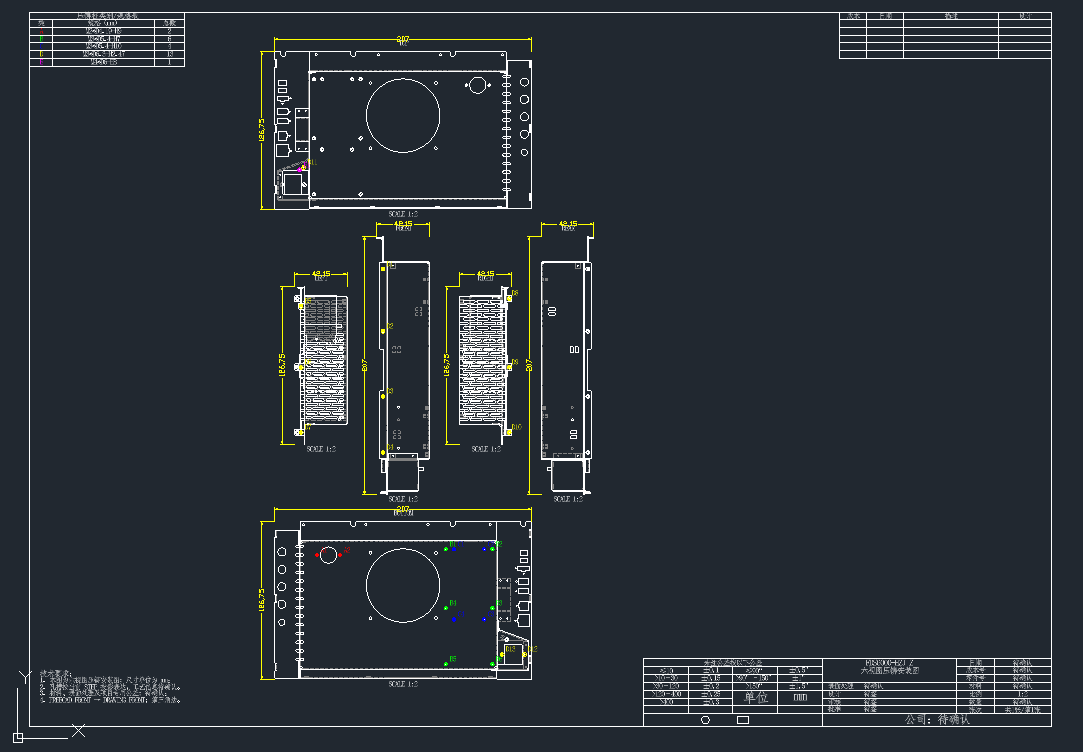
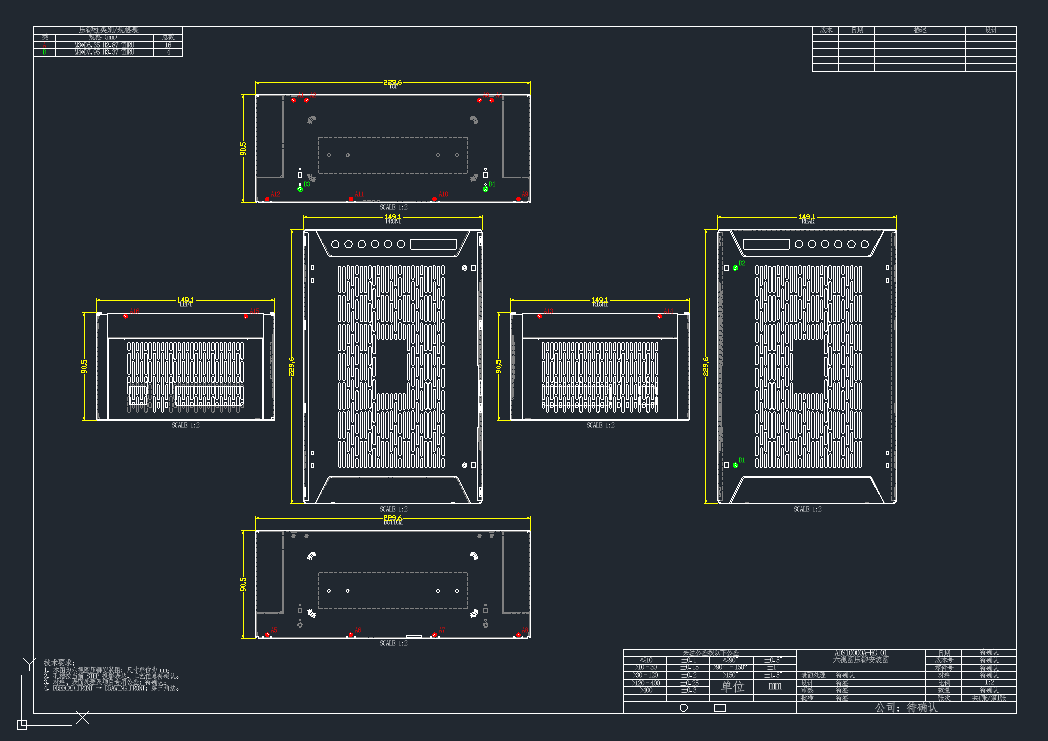
fix(drawing-workflow,view-basis-selection,stud_annotation_audit.py)解决TOP作为工程图前视图导致卯柱标注面错误，TOP和Bottom视图摆放角度错误问题

diff --git a/scripts/projection_transform.py b/scripts/projection_transform.py
@@ -1,0 +1,125 @@
+"""Shared axis-aligned TechDraw projection directions and 2D transforms.
+
+TechDraw.projectEx() chooses a local 2D basis from the model-space viewing
+direction.  That basis is not the drawing view's right/up basis in general.
+All projected geometry, anchors, dimensions and audit points must therefore
+pass through the same transform returned by this module.
+"""
+
+from __future__ import annotations
+
+from typing import Iterable
+
+
+Vector3 = tuple[float, float, float]
+
+_STANDARD_FRONT_BASES: dict[str, tuple[Vector3, Vector3, Vector3]] = {
+    # (drawing +X/right, drawing +Y/front observation, drawing +Z/up)
+    "FRONT": ((1, 0, 0), (0, -1, 0), (0, 0, 1)),
+    "REAR": ((-1, 0, 0), (0, 1, 0), (0, 0, 1)),
+    "RIGHT": ((0, -1, 0), (1, 0, 0), (0, 0, 1)),
+    "LEFT": ((0, 1, 0), (-1, 0, 0), (0, 0, 1)),
+    "TOP": ((1, 0, 0), (0, 0, -1), (0, -1, 0)),
+    "BOTTOM": ((1, 0, 0), (0, 0, 1), (0, 1, 0)),
+}
+
+_STANDARD_FRONT_FACE_NORMALS: dict[str, Vector3] = {
+    "FRONT": (0, -1, 0), "REAR": (0, 1, 0),
+    "RIGHT": (1, 0, 0), "LEFT": (-1, 0, 0),
+    "TOP": (0, 0, 1), "BOTTOM": (0, 0, -1),
+}
+
+
+def _neg(vector: Vector3) -> Vector3:
+    return tuple(-value for value in vector)  # type: ignore[return-value]
+
+
+def _dot(left: Iterable[float], right: Iterable[float]) -> float:
+    return sum(float(a) * float(b) for a, b in zip(left, right))
+
+
+def _dominant_axis(vector: Vector3) -> tuple[int, int]:
+    axis = max(range(3), key=lambda index: abs(vector[index]))
+    if abs(abs(vector[axis]) - 1.0) > 1e-9 or any(
+            abs(vector[index]) > 1e-9 for index in range(3) if index != axis):
+        raise ValueError(f"Only axis-aligned standard directions are supported: {vector}")
+    return axis, 1 if vector[axis] > 0 else -1
+
+
+def _techdraw_raw_basis(direction: Vector3) -> tuple[Vector3, Vector3]:
+    """Return model-space vectors represented by raw projectEx (x, y)."""
+    axis, sign = _dominant_axis(direction)
+    if axis == 0:
+        return ((0, 0, float(sign)), (0, -1, 0))
+    if axis == 1:
+        return ((0, 0, float(sign)), (1, 0, 0))
+    return ((float(sign), 0, 0), (0, 1, 0))
+
+
+def drawing_basis(front_source: str) -> tuple[Vector3, Vector3, Vector3]:
+    try:
+        return _STANDARD_FRONT_BASES[front_source.upper()]
+    except KeyError as exc:
+        raise ValueError(f"Unsupported front_source: {front_source}") from exc
+
+
+def view_bases(front_source: str) -> dict[str, tuple[Vector3, Vector3, Vector3]]:
+    """Map drawing view to (paper-right, paper-up, observation) vectors."""
+    x_d, y_d, z_d = drawing_basis(front_source)
+    return {
+        "FRONT": (x_d, z_d, y_d),
+        "REAR": (_neg(x_d), z_d, _neg(y_d)),
+        "RIGHT": (_neg(y_d), z_d, x_d),
+        "LEFT": (y_d, z_d, _neg(x_d)),
+        "TOP": (x_d, _neg(y_d), z_d),
+        "BOTTOM": (x_d, y_d, _neg(z_d)),
+    }
+
+
+def view_directions(front_source: str) -> dict[str, Vector3]:
+    return {name: basis[2] for name, basis in view_bases(front_source).items()}
+
+
+def model_side_names(front_source: str) -> tuple[tuple[str, str], ...]:
+    """Return target view names for positive/negative model outward normals."""
+    result: list[tuple[str, str]] = []
+    source = front_source.upper()
+    x_d, _, z_d = drawing_basis(source)
+    front_normal = _STANDARD_FRONT_FACE_NORMALS[source]
+    normals = {
+        "FRONT": front_normal, "REAR": _neg(front_normal),
+        "RIGHT": x_d, "LEFT": _neg(x_d),
+        "TOP": z_d, "BOTTOM": _neg(z_d),
+    }
+    for axis in range(3):
+        pair = []
+        for sign in (1, -1):
+            vector = [0.0, 0.0, 0.0]
+            vector[axis] = float(sign)
+            pair.append(next(name for name, normal in normals.items()
+                             if _dot(normal, vector) > 0.999999))
+        result.append((pair[0], pair[1]))
+    return tuple(result)
+
+
+def orient_projected_xy(front_source: str, view: str, x: float, y: float) -> tuple[float, float]:
+    """Convert raw projectEx XY to the selected drawing view's right/up XY."""
+    right, up, direction = view_bases(front_source)[view.upper()]
+    raw_right, raw_up = _techdraw_raw_basis(direction)
+    return (
+        x * _dot(raw_right, right) + y * _dot(raw_up, right),
+        x * _dot(raw_right, up) + y * _dot(raw_up, up),
+    )
+
+
+def validate_standard_transforms() -> None:
+    """Fail fast if a standard view produces a non-orthogonal 2D transform."""
+    for source in _STANDARD_FRONT_BASES:
+        for view in view_bases(source):
+            ex = orient_projected_xy(source, view, 1.0, 0.0)
+            ey = orient_projected_xy(source, view, 0.0, 1.0)
+            if abs(_dot(ex, ey)) > 1e-9 or abs(_dot(ex, ex) - 1.0) > 1e-9 or abs(_dot(ey, ey) - 1.0) > 1e-9:
+                raise AssertionError(f"Invalid 2D transform for {source}/{view}: {ex}, {ey}")
+
+
+validate_standard_transforms()

diff --git a/scripts/stud_annotation_audit.py b/scripts/stud_annotation_audit.py
@@ -13,13 +13,13 @@ import re
 import sys
 from typing import Any
 
+from projection_transform import model_side_names, orient_projected_xy, view_directions
+
 
 EXPECTED_VIEWS = {"TOP", "BOTTOM", "FRONT", "REAR", "LEFT", "RIGHT"}
-VIEW_DIRECTIONS = {
-    "FRONT": (0.0, -1.0, 0.0), "REAR": (0.0, 1.0, 0.0),
-    "RIGHT": (1.0, 0.0, 0.0), "LEFT": (-1.0, 0.0, 0.0),
-    "TOP": (0.0, 0.0, 1.0), "BOTTOM": (0.0, 0.0, -1.0),
-}
+FRONT_SOURCE = "FRONT"
+VIEW_DIRECTIONS = view_directions(FRONT_SOURCE)
+SIDE_NAMES = model_side_names(FRONT_SOURCE)
 ENABLED_HLR_GROUPS = {0, 3, 5, 8}
 ANCHOR_TYPES = {"POINT", "CIRCLE", "INSERT"}
 TAG_TYPES = {"TEXT", "MTEXT", "ATTRIB"}
@@ -87,8 +87,18 @@ def distance3(a: Any, b: Any) -> float | None:
 def side_from_vector(vector) -> str:
     values = (float(vector.x), float(vector.y), float(vector.z))
     axis = max(range(3), key=lambda i: abs(values[i]))
-    names = (("RIGHT", "LEFT"), ("REAR", "FRONT"), ("TOP", "BOTTOM"))
-    return names[axis][0 if values[axis] > 0 else 1]
+    return SIDE_NAMES[axis][0 if values[axis] > 0 else 1]
+
+
+def configure_view_basis(front_source: str) -> None:
+    """Configure drawing-view directions from the selected FreeCAD standard front."""
+    global FRONT_SOURCE, VIEW_DIRECTIONS, SIDE_NAMES
+    FRONT_SOURCE = front_source.upper()
+    try:
+        VIEW_DIRECTIONS = view_directions(FRONT_SOURCE)
+        SIDE_NAMES = model_side_names(FRONT_SOURCE)
+    except ValueError as exc:
+        raise SystemExit(str(exc)) from exc
 
 
 def canonical_axis(App, vector):
@@ -320,7 +330,7 @@ def rebuild_step_evidence(step_path: Path, App, Part):
 def project_point(Part, TechDraw, App, view: str, point: list[float]):
     groups = TechDraw.projectEx(Part.makeSphere(0.05, App.Vector(*point)),
                                 App.Vector(*VIEW_DIRECTIONS[view]))
-    centers = [(float(edge.Curve.Center.x), float(edge.Curve.Center.y))
+    centers = [orient2(view, float(edge.Curve.Center.x), float(edge.Curve.Center.y))
                for group in groups for edge in group.Edges
                if type(edge.Curve).__name__ == "Circle"]
     if not centers:
@@ -334,13 +344,17 @@ def project_bbox(TechDraw, App, shape, view: str):
     points = []
     for group_index in ENABLED_HLR_GROUPS:
         for edge in groups[group_index].Edges:
-            points.extend((float(v.Point.x), float(v.Point.y)) for v in edge.Vertexes)
+            points.extend(orient2(view, float(v.Point.x), float(v.Point.y)) for v in edge.Vertexes)
             if not edge.Vertexes:
-                points.extend((float(p.x), float(p.y)) for p in edge.discretize(Deflection=0.16))
+                points.extend(orient2(view, float(p.x), float(p.y)) for p in edge.discretize(Deflection=0.16))
     if not points:
         raise RuntimeError(f"No independent projected geometry in {view}")
     xs, ys = [p[0] for p in points], [p[1] for p in points]
     return [min(xs), min(ys), max(xs), max(ys)]
+
+
+def orient2(view: str, x: float, y: float):
+    return orient_projected_xy(FRONT_SOURCE, view, x, y)
 
 
 def entity_position(entity):
@@ -560,6 +574,7 @@ def main() -> int:
         if not path.is_file():
             raise SystemExit(f"{label} does not exist: {path}")
     check = json.loads(args.check.read_text(encoding="utf-8"))
+    configure_view_basis(str(check.get("front_source") or "FRONT"))
     validation = check.get("annotation_validation") or {}
     records = validation.get("per_item") or []
     confirmed_inputs = check.get("confirmed_inputs") or {}
@@ -644,12 +659,11 @@ def main() -> int:
             if independent is not None and independent_view is None and override_view in EXPECTED_VIEWS:
                 independent_view = override_view
                 independent_exterior_basis = "user_confirmed"
-                body_vector = independent.get("body_side_vector") or []
-                view_vector = VIEW_DIRECTIONS[override_view]
-                if len(body_vector) == 3:
-                    dot = sum(float(body_vector[i]) * view_vector[i] for i in range(3))
-                    independent_extension_relation = ("outward" if dot > 0.5 else
-                                                      "inward" if dot < -0.5 else "pending")
+                independent["installation_outer_side"] = override_view
+                independent["exterior_side_status"] = "confirmed_by_user"
+                independent["exterior_side_basis"] = "user_confirmed"
+                independent_extension_relation = (
+                    "outward" if independent.get("body_side") == override_view else "inward")
             anchor_handle, tag_handle = str(record.get("anchor_entity_handle") or ""), str(record.get("tag_text_handle") or "")
             outline_handles = [str(handle) for handle in (record.get("outline_entity_handles") or [])]
             anchor_entity = doc.entitydb.get(anchor_handle) if anchor_handle else None

diff --git a/references/drawing-workflow.md b/references/drawing-workflow.md
@@ -22,6 +22,7 @@
 
 1. 按[投影简化与复杂度控制](projection-complexity.md)建立可追溯绘图副本，抑制非功能细节并执行 HLR。生成 DRAWING `TOP/BOTTOM/FRONT/REAR/LEFT/RIGHT` 六个正投影；输出可见实线、隐藏虚线和中心线，不使用透明面或全边实线代替消隐。
 2. 固定第三角法布局：FRONT 居中，TOP 上、BOTTOM 下、LEFT 左、RIGHT 右、REAR 在 RIGHT 外侧。TOP/FRONT/BOTTOM 共用竖向投影基准，LEFT/FRONT/RIGHT/REAR 共用横向投影基准；六图同一比例。用至少三个不共线特征检查每个视图的方向、朝上关系和镜像。
+   对六个轴对齐标准视图，生成源必须导入 `scripts/projection_transform.py`，并把所有 `TechDraw.projectEx()` 返回点统一传入 `orient_projected_xy()`；禁止在项目脚本中另写仅交换 TOP/BOTTOM 的临时规则。
 3. 按[特征尺寸标注清单](feature-dimensions.md)建立六视图尺寸覆盖。每项尺寸记录源特征、测量基准、未舍入值、显示值、符号、目标视图和 DXF 实体。压铆三维锚点取柱轴与安装板外表面/局部板厚中面的交点，并使用与 HLR 几何相同的视图变换投到安装板外表面视图；柱身向内延伸时也不得改投到柱身侧。禁止用包围盒中心或逐视图手写坐标公式。隐藏特征无法清楚表达时，可在同一图幅增加局部图或剖视，但不得取代六个主视图。
 4. 保存 HLR 原始/优化统计、几何等价检查、`dimension_validation` 和 `annotation_validation`。后者逐件绑定源实例、安装孔、目标视图、变换标识、期望图幅坐标、DXF 锚点/位号 handle 及回读偏差；改变方向、简化策略、特征识别、比例或排布后重做本阶段。
 

diff --git a/references/view-basis-selection.md b/references/view-basis-selection.md
@@ -36,6 +36,7 @@
 3. 在正式标注前，用同一次投影接口处理三个不共线且可辨识的模型参考点/短线，求解或验证 `T_model_to_view`。也可在安装孔锚点处投影不进入最终图层的小型三维十字/圆环，从返回几何直接取得二维中心。不得用生成器自行假设的映射作为校准真值。
 4. HLR 几何、普通孔中心、压铆锚点、尺寸落点、视图边界和局部/剖视定位必须调用同一个变换对象；禁止各模块维护独立坐标字典。图幅比例或视图中心改变时，只更新 `T_view_to_sheet` 并重算全部关联实体。
 5. 每个视图保存至少三个校准点的三维坐标、实际投影二维坐标、变换计算值、残差和结论。最大纸面残差不得超过项目位置容差；未指定时为 `0.10 mm`。改变 FreeCAD 版本、投影接口、`front_source`、统一比例或视图排布后，六个视图全部重新校准。
+6. 轴对齐的六个 FreeCAD 标准方向必须复用 `scripts/projection_transform.py`：用 `view_directions(front_source)` 取得六个实际观察向量，用 `orient_projected_xy(front_source, view, x, y)` 把 `TechDraw.projectEx()` 原始二维坐标转换为图纸右/上坐标。不得按视图名称写死 `TOP/BOTTOM` 交换轴；二维轴序由实际观察向量和图纸基共同决定，并且可能同时包含交换和符号反转。生成器、压铆锚点、尺寸锚点、视图边界及独立审计必须调用该共享实现。非轴对齐视图仍须按第 3 条用校准点求解变换，不得套用本模块。
 
 ## 4. 预览确认与重算范围
 
